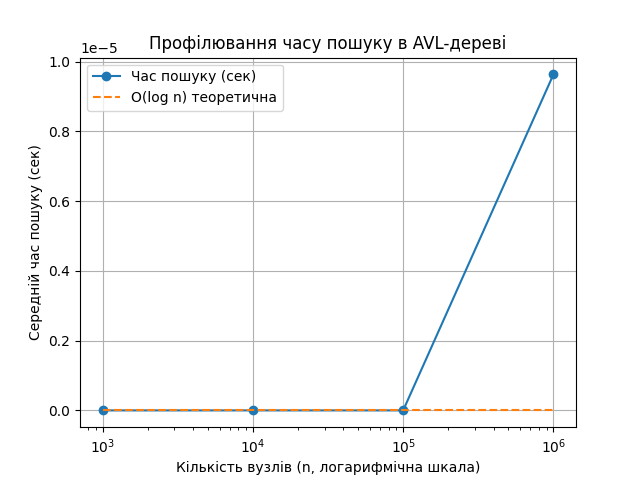
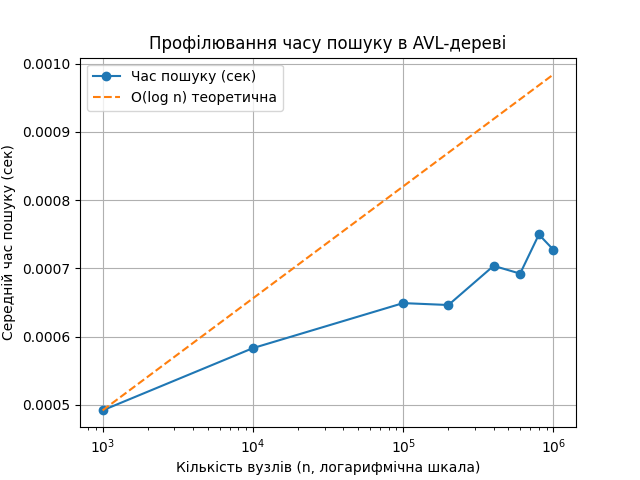
Update README.md

diff --git a/scripts/profile_time.py b/scripts/profile_time.py
@@ -2,31 +2,44 @@ import matplotlib.pyplot as plt
 import time
 import random
 import math
+import cProfile
+import pstats
 from balanced_binary_search_tree.avl_tree import AVLTree
 
+def search_wrapper(avl, key):
+    """Обгортка для профілювання пошуку."""
+    avl.search_key(key)
 
 def profile_time():
     times = []
-    n_values = [1000, 10000, 100000, 1000000]  # Різні розміри дерева
+    n_values = [1000, 10000, 100000, 200000, 400000, 600000, 800000, 1000000]
 
     for n in n_values:
         avl = AVLTree()
+        # Заповнення дерева
         for i in range(n):
             avl.insert_key(random.randint(0, n))
 
-        # Вимірювання часу пошуку (усереднене за 100 спроб)
+        # Профілювання часу пошуку
+        profiler = cProfile.Profile()
         total_time = 0
-        for _ in range(100):
+        runs = 100  # Кількість спроб для усереднення
+        for _ in range(runs):
             key = random.randint(0, n)
-            start = time.time()
-            avl.search_key(key)
-            total_time += time.time() - start
-        avg_time = total_time / 100
+            profiler.enable()
+            search_wrapper(avl, key)
+            profiler.disable()
+            # Отримуємо статистику
+            stats = pstats.Stats(profiler)
+            total_time += stats.total_tt  # Загальний час у секундах
+
+        avg_time = total_time / runs
         times.append(avg_time)
-        print(f"n={n}, Середній час пошуку={avg_time} сек")
+        print(f"n={n}, Середній час пошуку={avg_time:.10f} сек")
 
     # Побудова графіку
     plt.plot(n_values, times, label='Час пошуку (сек)', marker='o')
+    # Теоретична крива O(log n), нормалізована до першої точки
     plt.plot(n_values, [math.log(n) * times[0] / math.log(n_values[0]) for n in n_values],
              label='O(log n) теоретична', linestyle='--')
     plt.xscale('log')  # Логарифмічна шкала для n
@@ -37,7 +50,6 @@ def profile_time():
     plt.grid(True)
     plt.savefig("profile_time.png")
     plt.show()
-
 
 if __name__ == "__main__":
     profile_time()
